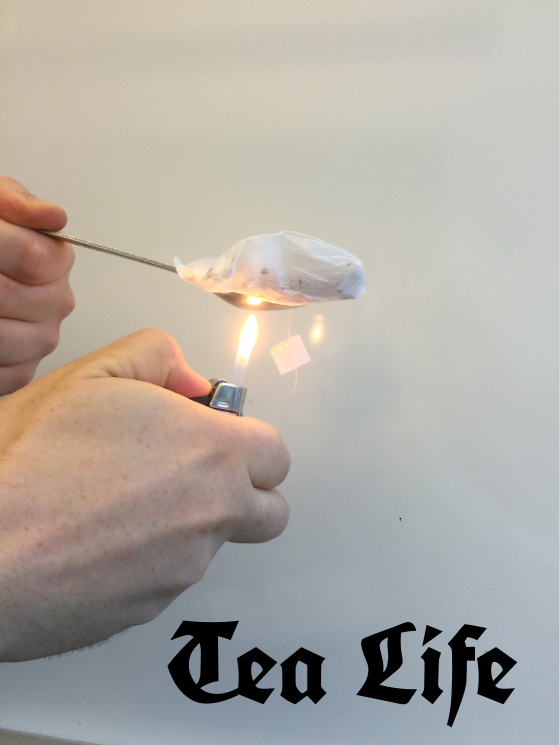
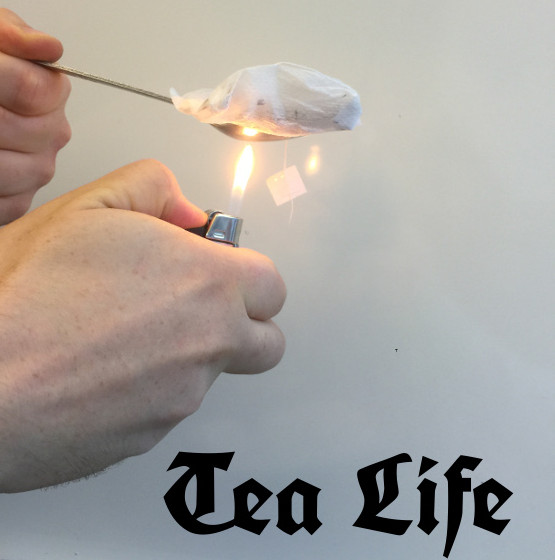
kuttet litt i tea-spoon.jpg, fjerna sider vi ikke bruker lenger

Changed region(s): [[0.0, 0.0, 0.6739, 0.9714], [0.6432, 0.7893, 0.9189, 1.0], [0.0, 0.9714, 0.1532, 1.0]]

diff --git a/mrtea/ourgear.html b/mrtea/ourgear.html
@@ -98,7 +98,7 @@
 						<li>Enjoy your tea a la Boriz!</li>
 					</ol>
 				<div class="picture-frame">
-					<img src="assets/images/ourgear-boris.jpg" alt="Your alt-text here, Ipsum Lorem, bitches">
+					<img src="assets/images/ourgear-boris.jpg" alt="Tea a la Boriz, in a cup">
 				</div>
 
 			</div>
